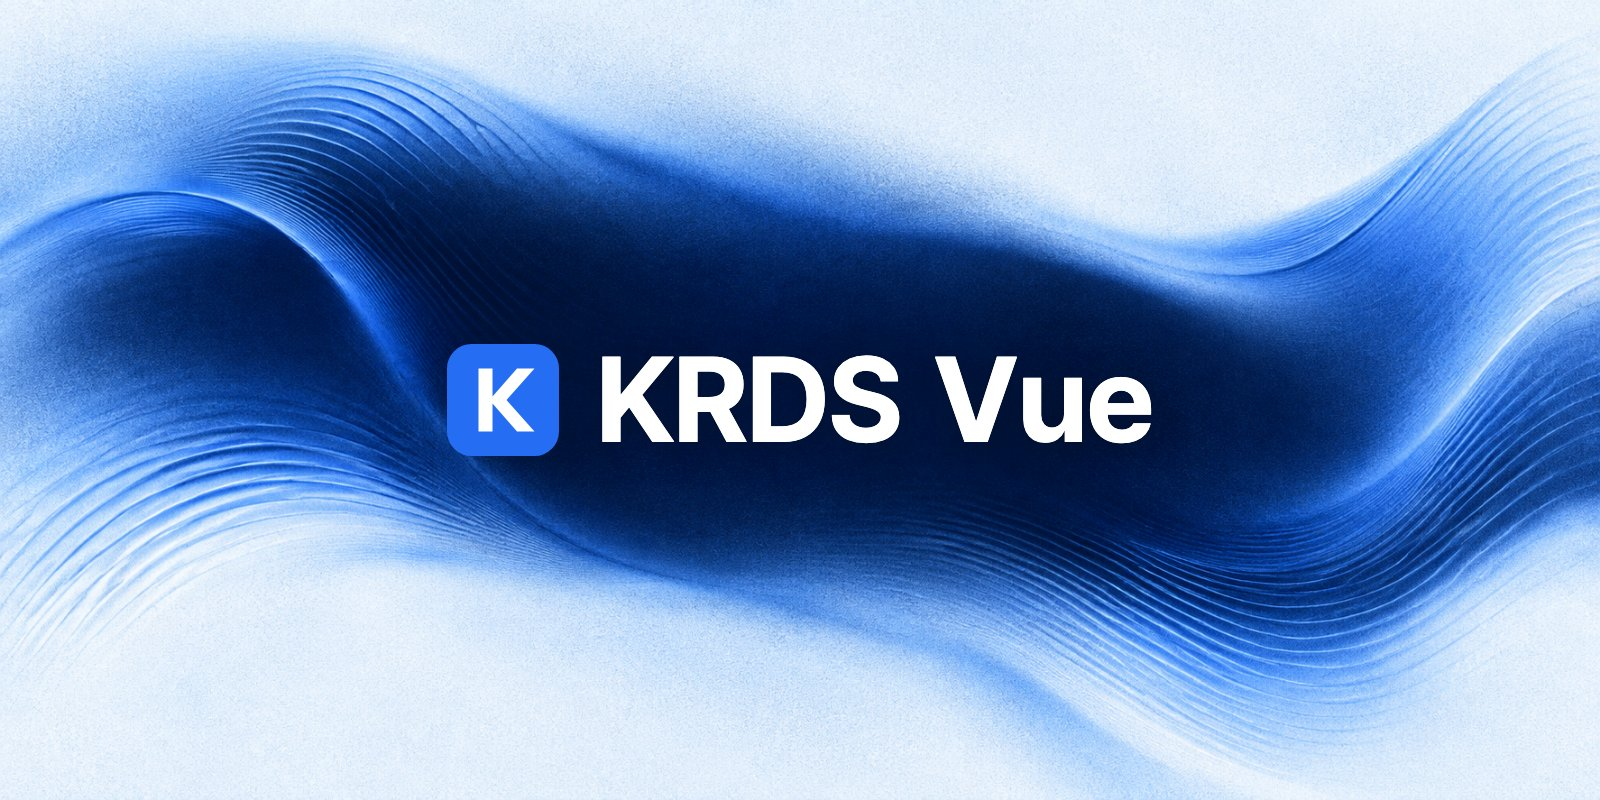
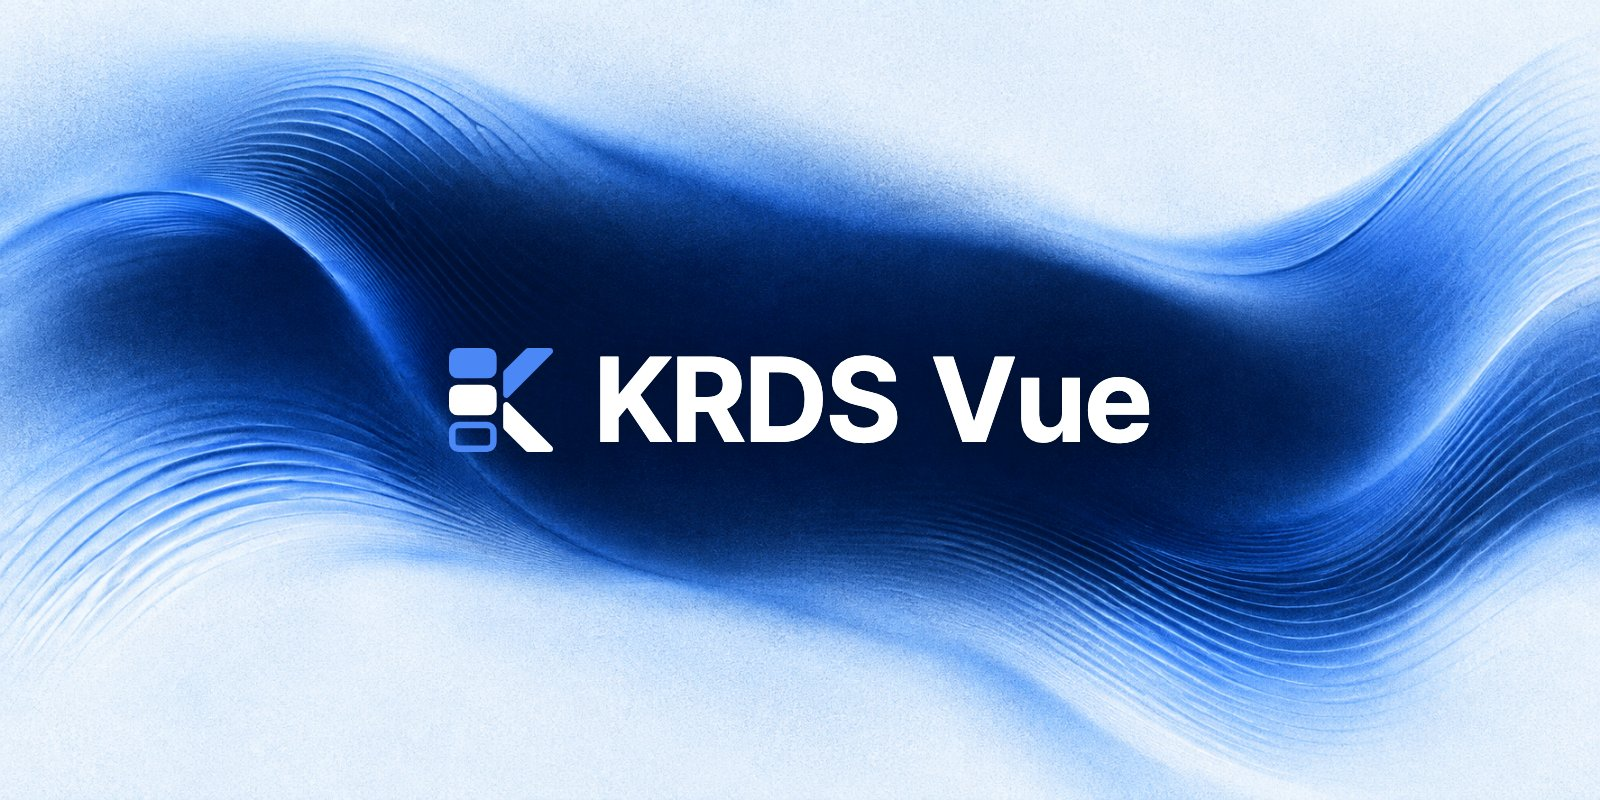
docs: 로고를 컴포넌트 블록으로 만든 K로 바꾸고 문서 사이트 상단에 밝은·어두운 모드 로고 적용
Codex로 받은 시안 4개 중 버튼·입력 필드 모양 블록을 쌓아 만든 K를 SVG로 다시 그림.

- docs/public/logo.svg: 기본 로고 (#256ef4·#052561, 맨 아래 블록은 입력 필드처럼 테두리)
- docs/public/logo-dark.svg: 어두운 배경용 (#4c87f6·흰색)
- docs/public/favicon.svg: 16px에서도 읽히도록 파란 타일 위 흰·연파랑 블록으로 단순화
- 문서 사이트 상단 로고를 favicon에서 logo.svg / logo-dark.svg(어두운 모드)로
- README 배너의 로고를 logo-dark.svg로 다시 합성

Changed region(s): [[0.2812, 0.4062, 0.5625, 0.5938], [0.5938, 0.4688, 0.7188, 0.5625]]

diff --git a/docs/.vitepress/config.ts b/docs/.vitepress/config.ts
@@ -164,7 +164,7 @@ export default defineConfig({
     ]
   },
   themeConfig: {
-    logo: { src: '/favicon.svg', alt: '' },
+    logo: { light: '/logo.svg', dark: '/logo-dark.svg', alt: '' },
     // 새 창으로 여는 본문 링크에 ↗ 표시 (예제 영역 .vp-raw는 격리돼 붙지 않음)
     externalLinkIcon: true,
     nav: [
